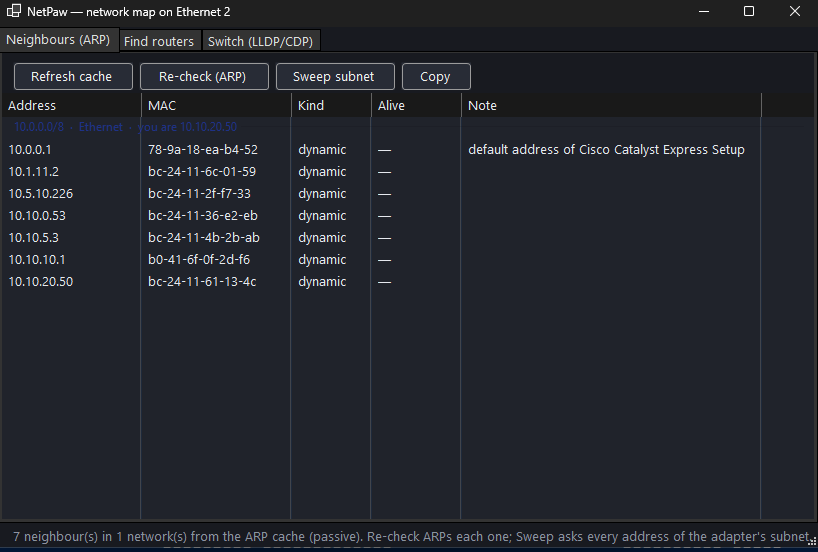
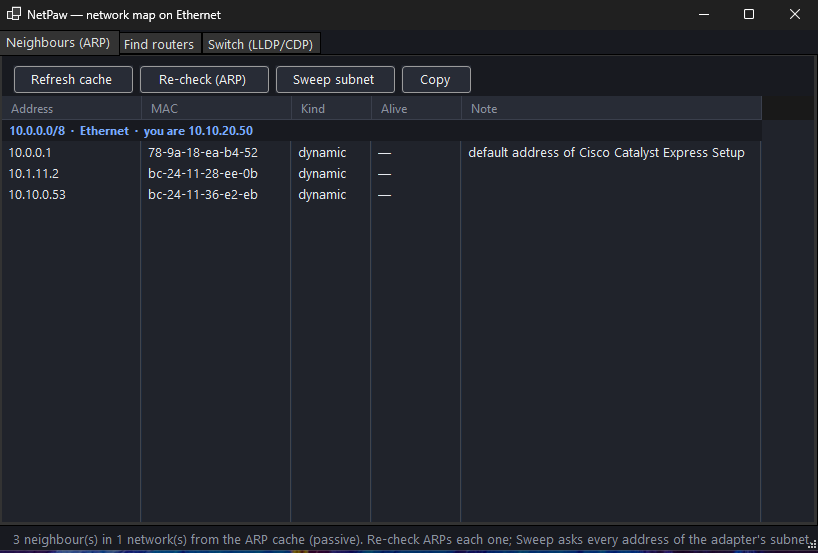
Dark tab strip; README screenshots for v0.8 (info card 'Also' row, map headers, tabbed settings)

diff --git a/src/NetPaw.Tray/Theme.cs b/src/NetPaw.Tray/Theme.cs
@@ -65,6 +65,7 @@ static class Theme
             case ComboBox cb: cb.BackColor = Field; cb.ForeColor = Text; cb.FlatStyle = FlatStyle.Flat; break;
             case ListBox lb: lb.BackColor = Panel; lb.ForeColor = Text; lb.BorderStyle = BorderStyle.None; break;
             case ListView lv: DarkListView(lv); break;
+            case TabControl tc: DarkTabs(tc); break;
             case CheckBox or RadioButton: c.ForeColor = Text; c.BackColor = Color.Transparent; break;
             case LinkLabel ll: ll.LinkColor = Accent; ll.ActiveLinkColor = Text; ll.VisitedLinkColor = Accent; ll.LinkBehavior = LinkBehavior.HoverUnderline; ll.BackColor = Color.Transparent; break;
             case Label l: if (l.ForeColor == SystemColors.ControlText) l.ForeColor = Text; l.BackColor = Color.Transparent; break;
@@ -97,6 +98,21 @@ static class Theme
         };
         lv.DrawSubItem += (_, e) => { e.DrawDefault = e.Item.Tag is not SeparatorTag; };
         lv.ItemSelectionChanged += (_, e) => { if (e.Item?.Tag is SeparatorTag && e.IsSelected) e.Item.Selected = false; };
+    }
+
+    /// <summary>TabControl ignores BackColor; owner-draw the tab strip so it matches the dark forms.</summary>
+    static void DarkTabs(TabControl tc)
+    {
+        if (tc.DrawMode == TabDrawMode.OwnerDrawFixed) return;
+        tc.DrawMode = TabDrawMode.OwnerDrawFixed; tc.SizeMode = TabSizeMode.Fixed; tc.ItemSize = new Size(Math.Max(tc.ItemSize.Width, 110), 26); tc.Padding = new Point(12, 4);
+        foreach (TabPage page in tc.TabPages) { page.BackColor = Bg; page.ForeColor = Text; page.UseVisualStyleBackColor = false; }
+        tc.DrawItem += (_, e) =>
+        {
+            var selected = e.Index == tc.SelectedIndex;
+            using var bg = new SolidBrush(selected ? Bg : Field); e.Graphics.FillRectangle(bg, e.Bounds);
+            if (selected) { using var accent = new SolidBrush(Accent); e.Graphics.FillRectangle(accent, e.Bounds.Left, e.Bounds.Bottom - 2, e.Bounds.Width, 2); }
+            TextRenderer.DrawText(e.Graphics, tc.TabPages[e.Index].Text, selected ? new Font(Base, FontStyle.Bold) : Base, e.Bounds, selected ? Text : Muted, TextFormatFlags.HorizontalCenter | TextFormatFlags.VerticalCenter);
+        };
     }
 
     sealed class SeparatorTag { public static readonly SeparatorTag Instance = new(); }
